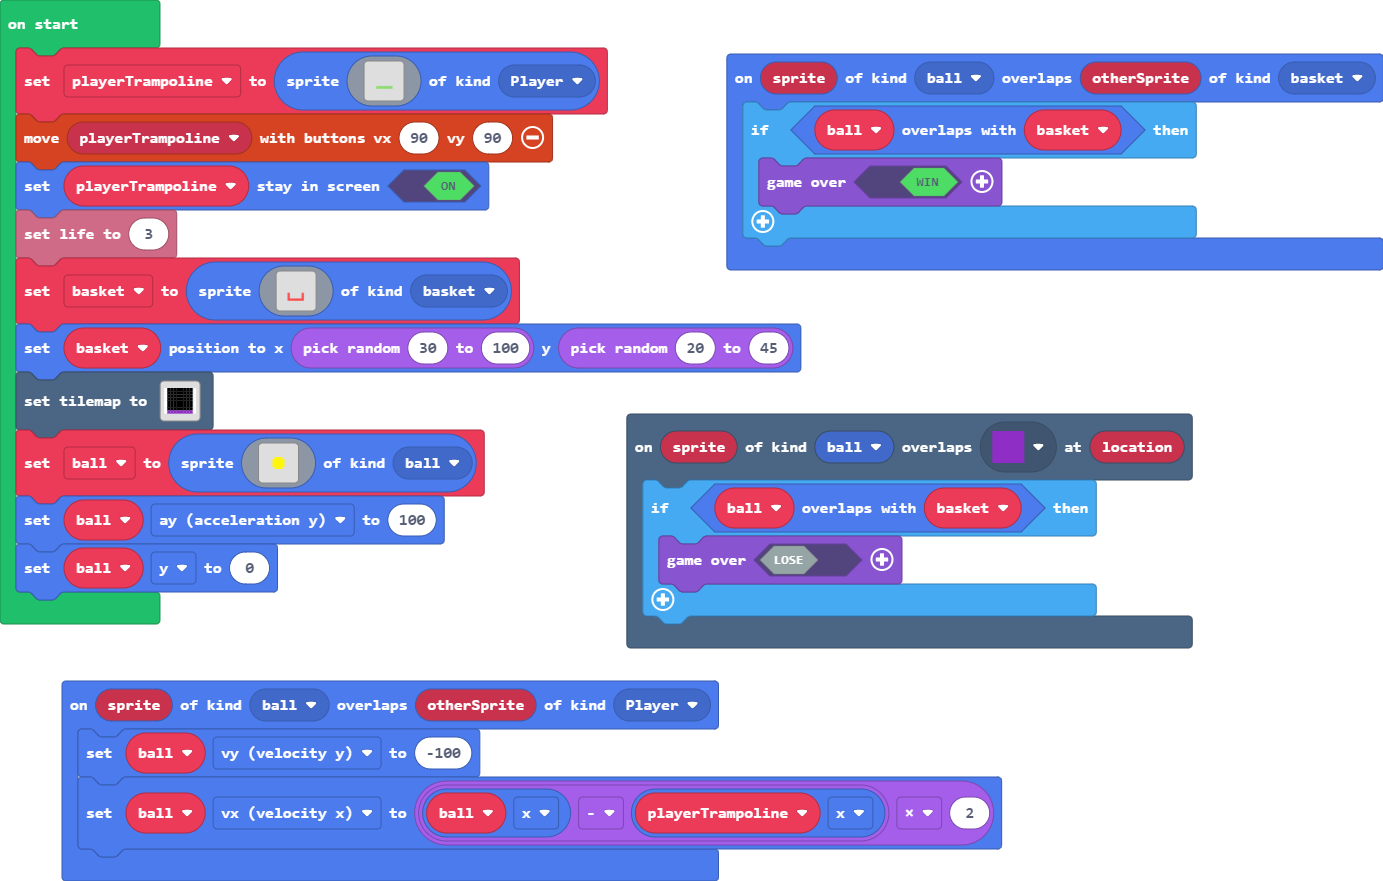
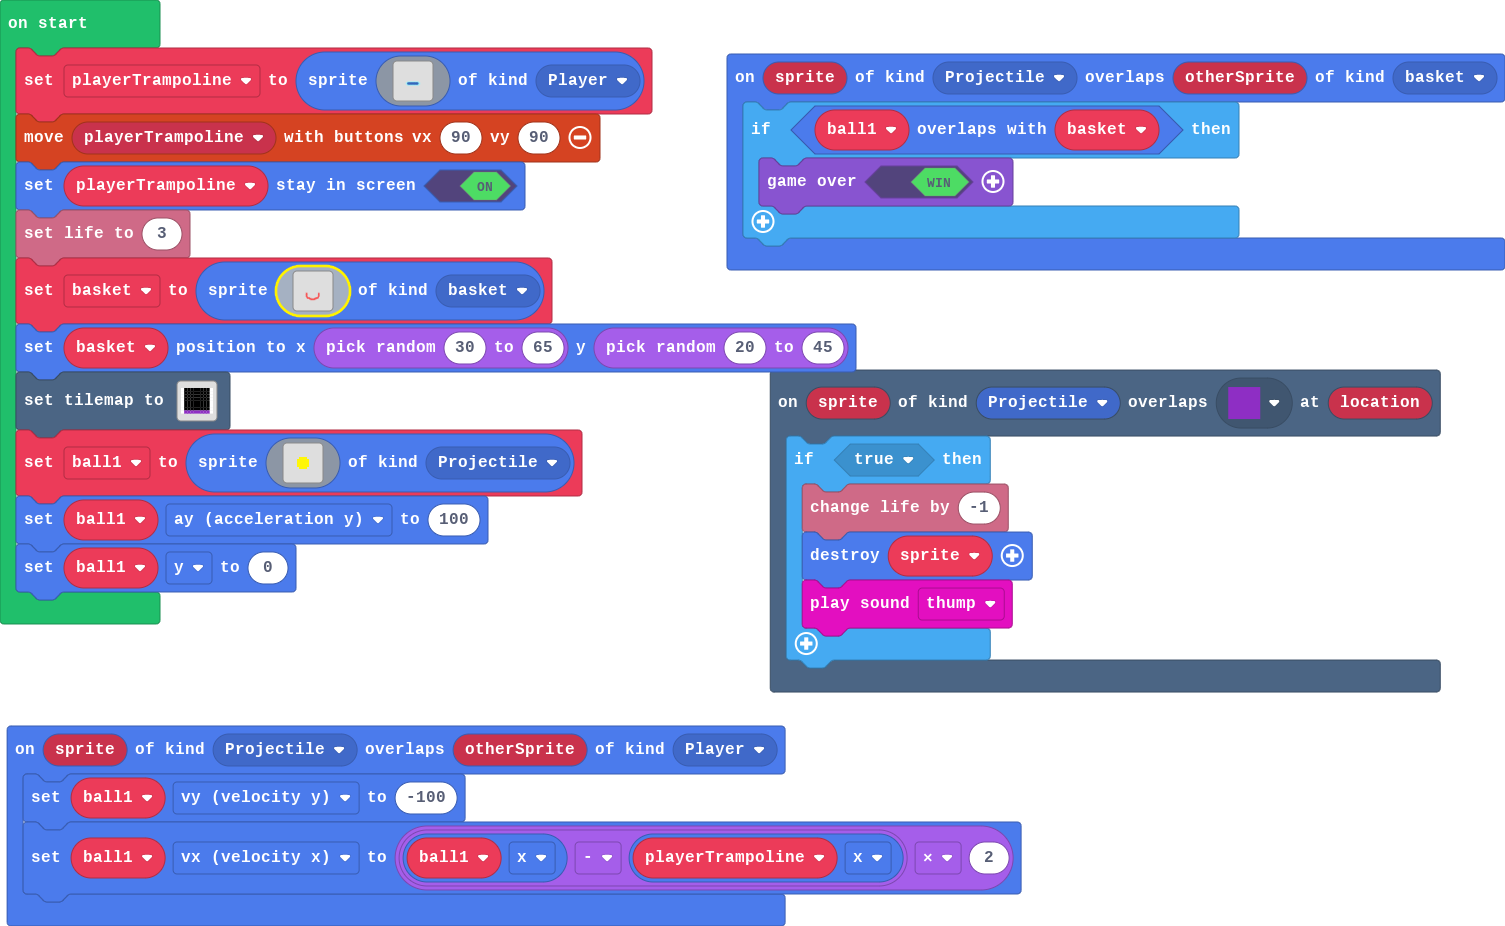
changed sprites

diff --git a/main.ts b/main.ts
@@ -2,22 +2,25 @@ namespace SpriteKind {
     export const trampoline = SpriteKind.create()
     export const basket = SpriteKind.create()
     export const ball = SpriteKind.create()
+    export const floor = SpriteKind.create()
 }
-sprites.onOverlap(SpriteKind.ball, SpriteKind.basket, function (sprite, otherSprite) {
-    if (ball.overlapsWith(basket)) {
+sprites.onOverlap(SpriteKind.Projectile, SpriteKind.basket, function (sprite, otherSprite) {
+    if (ball1.overlapsWith(basket)) {
         game.over(true)
     }
 })
-scene.onOverlapTile(SpriteKind.ball, assets.tile`myTile0`, function (sprite, location) {
-    if (ball.overlapsWith(basket)) {
-        game.over(false)
+sprites.onOverlap(SpriteKind.Projectile, SpriteKind.Player, function (sprite, otherSprite) {
+    ball1.vy = -100
+    ball1.vx = (ball1.x - playerTrampoline.x) * 2
+})
+scene.onOverlapTile(SpriteKind.Projectile, assets.tile`myTile0`, function (sprite, location) {
+    if (true) {
+        info.changeLifeBy(-1)
+        sprite.destroy()
+        music.thump.play()
     }
 })
-sprites.onOverlap(SpriteKind.ball, SpriteKind.Player, function (sprite, otherSprite) {
-    ball.vy = -100
-    ball.vx = (ball.x - playerTrampoline.x) * 2
-})
-let ball: Sprite = null
+let ball1: Sprite = null
 let basket: Sprite = null
 let playerTrampoline: Sprite = null
 playerTrampoline = sprites.create(img`
@@ -47,17 +50,17 @@ playerTrampoline = sprites.create(img`
     ..................................................
     ..................................................
     ..................................................
+    ................999999999999999999................
+    ...............99888888888888888899...............
+    ..............9988888888888888888899..............
+    ..............9988888888888888888899..............
+    ...............99888888888888888899...............
+    ................999999999999999999................
     ..................................................
     ..................................................
     ..................................................
     ..................................................
     ..................................................
-    ..................................................
-    ..................................................
-    .............7777777777777777777777777............
-    .............7777777777777777777777777............
-    .............7777777777777777777777777............
-    .............7777777777777777777777777............
     ..................................................
     ..................................................
     ..................................................
@@ -104,18 +107,18 @@ basket = sprites.create(img`
     ..................................................
     ..................................................
     ..................................................
-    ............222...................222.............
-    ............222...................222.............
-    ............222...................222.............
-    ............222...................222.............
-    ............222...................222.............
-    ............222...................222.............
-    ............222...................222.............
-    ............222...................222.............
-    ............222...................222.............
-    ............2222222222222222222222222.............
-    ............2222222222222222222222222.............
-    ............2222222222222222222222222.............
+    ..............22.................22...............
+    ..............22.................22...............
+    ..............22.................22...............
+    ..............22.................22...............
+    ..............22.................22...............
+    ..............22.................22...............
+    ...............22...............22................
+    ...............22222.........22222................
+    ................222222.....222222.................
+    ...................22222222222....................
+    .....................2222222......................
+    ..................................................
     ..................................................
     ..................................................
     ..................................................
@@ -127,9 +130,9 @@ basket = sprites.create(img`
     ..................................................
     ..................................................
     `, SpriteKind.basket)
-basket.setPosition(randint(30, 100), randint(20, 45))
+basket.setPosition(randint(30, 65), randint(20, 45))
 tiles.setTilemap(tilemap`level1`)
-ball = sprites.create(img`
+ball1 = sprites.create(img`
     . . . . . . . . . . . . . . . . 
     . . . . . . . . . . . . . . . . 
     . . . . . . . . . . . . . . . . 
@@ -146,6 +149,6 @@ ball = sprites.create(img`
     . . . . . . . . . . . . . . . . 
     . . . . . . . . . . . . . . . . 
     . . . . . . . . . . . . . . . . 
-    `, SpriteKind.ball)
-ball.ay = 100
-ball.y = 0
+    `, SpriteKind.Projectile)
+ball1.ay = 100
+ball1.y = 0
